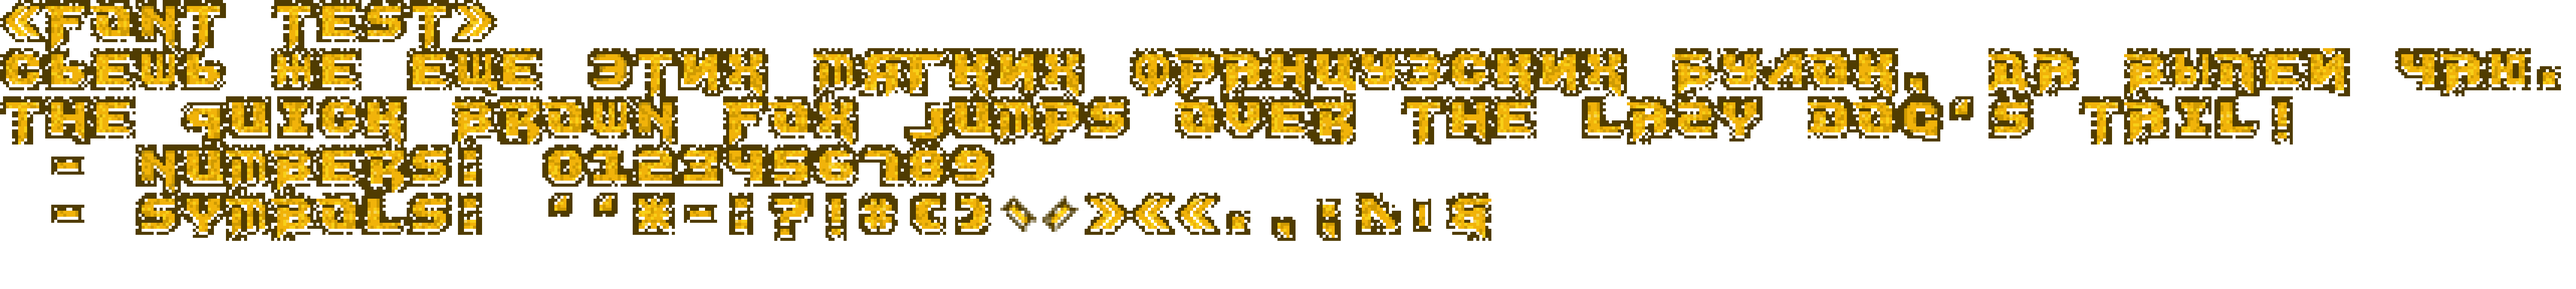
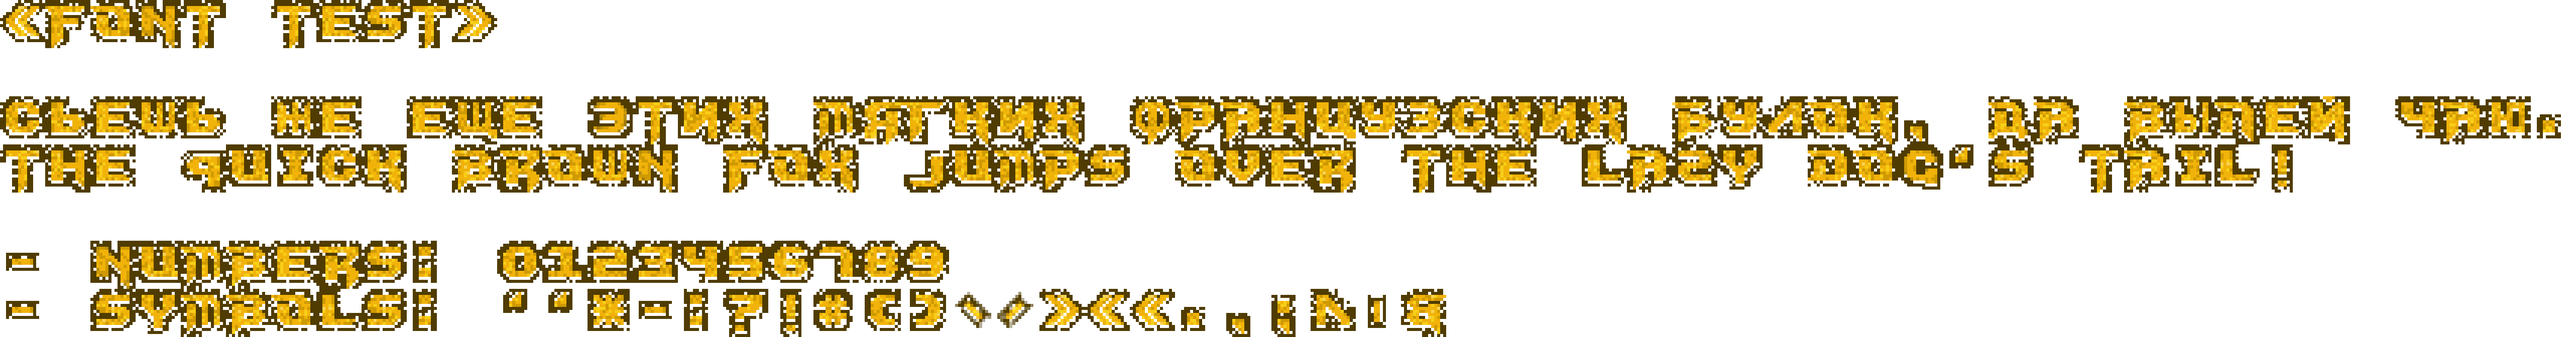
add characters limit

diff --git a/bin/font/renderText.py b/bin/font/renderText.py
@@ -2,12 +2,13 @@
 import argparse
 import os
 import sys
+import textwrap
 from PIL import Image
 
 TEST_TEXT = (
-    '"Font test"\\n'
+    '"Font test"\\n\\n'
     "СЪЕШЬ ЖЕ ЕЩЁ ЭТИХ МЯГКИХ ФРАНЦУЗСКИХ БУЛОК, ДА ВЫПЕЙ ЧАЮ.\n"
-    "THE QUICK BROWN FOX JUMPS OVER THE LAZY DOG'S TAIL!\n"
+    "THE QUICK BROWN FOX JUMPS OVER THE LAZY DOG'S TAIL!\n\n"
     " - numbers: 0123456789\n"
     " - symbols: '`*-:?!#()\\/><\".,;^|&%$@_{}[]\n"
 )
@@ -143,11 +144,34 @@ def get_char_tile(font_img, char, char_coords, game, CHAR_W, CHAR_H):
     return font_img.crop((cx * CHAR_W, cy * CHAR_H, (cx + 1) * CHAR_W, (cy + 1) * CHAR_H))
 
 
-def renderText(game: str, text: str) -> Image.Image:
-    """
-    Renders the provided text using a sprite sheet font.
-    Returns a PIL Image object.
-    """
+def wrapByWords(text: str, charLimit: int) -> str:
+    if not text:
+        return ""
+
+    lines = text.splitlines()
+    wrapped_lines = []
+
+    for line in lines:
+        # .strip() removes leading/trailing spaces that often cause "doubling"
+        clean_line = line.strip()
+
+        if not clean_line:
+            wrapped_lines.append("")
+        else:
+            # fix_sentence_endings=False prevents adding extra spaces after periods
+            # break_long_words=False ensures words aren't cut in half
+            wrapped = textwrap.fill(
+                clean_line,
+                width=charLimit,
+                fix_sentence_endings=False,
+                break_long_words=False
+            )
+            wrapped_lines.append(wrapped)
+
+    return "\n".join(wrapped_lines)
+
+
+def renderText(game: str, text: str, scale: int, charLimit: int) -> Image.Image:
     script_dir = os.path.dirname(os.path.realpath(__file__))
     font_path = os.path.join(script_dir, f"font_{game}.png")
 
@@ -179,6 +203,7 @@ def renderText(game: str, text: str) -> Image.Image:
     char_coords[' '] = (3, 3)  # Specific space coordinate
 
     processed_text = process_text(text)
+    processed_text = wrapByWords(processed_text, charLimit)
     lines = processed_text.split('\n')
 
     CHAR_W, CHAR_H = 15, 16
@@ -191,6 +216,10 @@ def renderText(game: str, text: str) -> Image.Image:
             tile = get_char_tile(font_img, char, char_coords, game, CHAR_W, CHAR_H)
             out_img.paste(tile, (char_idx * CHAR_W, line_idx * CHAR_H))
 
+    if scale != 1:
+        new_size = (out_img.width * scale, out_img.height * scale)
+        out_img = out_img.resize(new_size, resample=Image.Resampling.NEAREST)
+
     return out_img
 
 
@@ -200,6 +229,7 @@ def main():
     parser.add_argument("--test", action="store_true", help="Render test sentences instead of provided text")
     parser.add_argument("--output", "-o", type=str, help="Output filename")
     parser.add_argument("--scale", type=int, default=6, help="Scale factor (nearest neighbor). Default is 6")
+    parser.add_argument("--limit", type=int, default=300, help="Characters per line limit. Default is 300")
     parser.add_argument("text", nargs="?", default="", help="Text to render")
     args = parser.parse_args()
 
@@ -211,17 +241,11 @@ def main():
     else:
         render_input = args.text
 
-    # Call the new helper function
     try:
-        out_img = renderText(args.game, render_input)
+        out_img = renderText(args.game, render_input, args.scale, args.limit)
     except Exception as e:
         print(f"Error: {e}")
         sys.exit(1)
-
-    # Apply scaling if necessary
-    if args.scale != 1:
-        new_size = (out_img.width * args.scale, out_img.height * args.scale)
-        out_img = out_img.resize(new_size, resample=Image.Resampling.NEAREST)
 
     if args.output:
         out_filename = args.output
@@ -242,7 +266,7 @@ def makeGradioApp():
     }
     """
 
-    with gr.Blocks(css=css) as demo:
+    with gr.Blocks(css=css, title="Bunker 3D Fonts", theme=gr.themes.Default(primary_hue=gr.themes.colors.blue)) as demo:
         with gr.Column():
             gr.Markdown(
                 "### Используйте шрифты из старых J2ME игр от Netsoftware! (Бункер 3D, Лаборатория 3D, Крепость 3D)\n\n"
@@ -258,12 +282,16 @@ def makeGradioApp():
                     game = gr.Radio(label="Игра/Game", value="b3d", choices=["b3d", "l3d", "c3d"])
                 with gr.Column():
                     result = gr.Image(label="Результат/Result", elem_id="result")
+                    charLimit = gr.Slider(label="Лимит символов в строке/Characters limit per line", value=40, minimum=10, maximum=300, scale=1, step=1)
+                    scale = gr.Slider(label="Размер пикселей/Pixels size", value=6, minimum=1, maximum=10, scale=1, step=1)
         gr.on(
-            triggers=[prompt.change, game.change, demo.load],
+            triggers=[prompt.change, game.change, scale.change, demo.load],
             fn=renderText,
             inputs=[
                 game,
                 prompt,
+                scale,
+                charLimit,
             ],
             outputs=[
                 result
